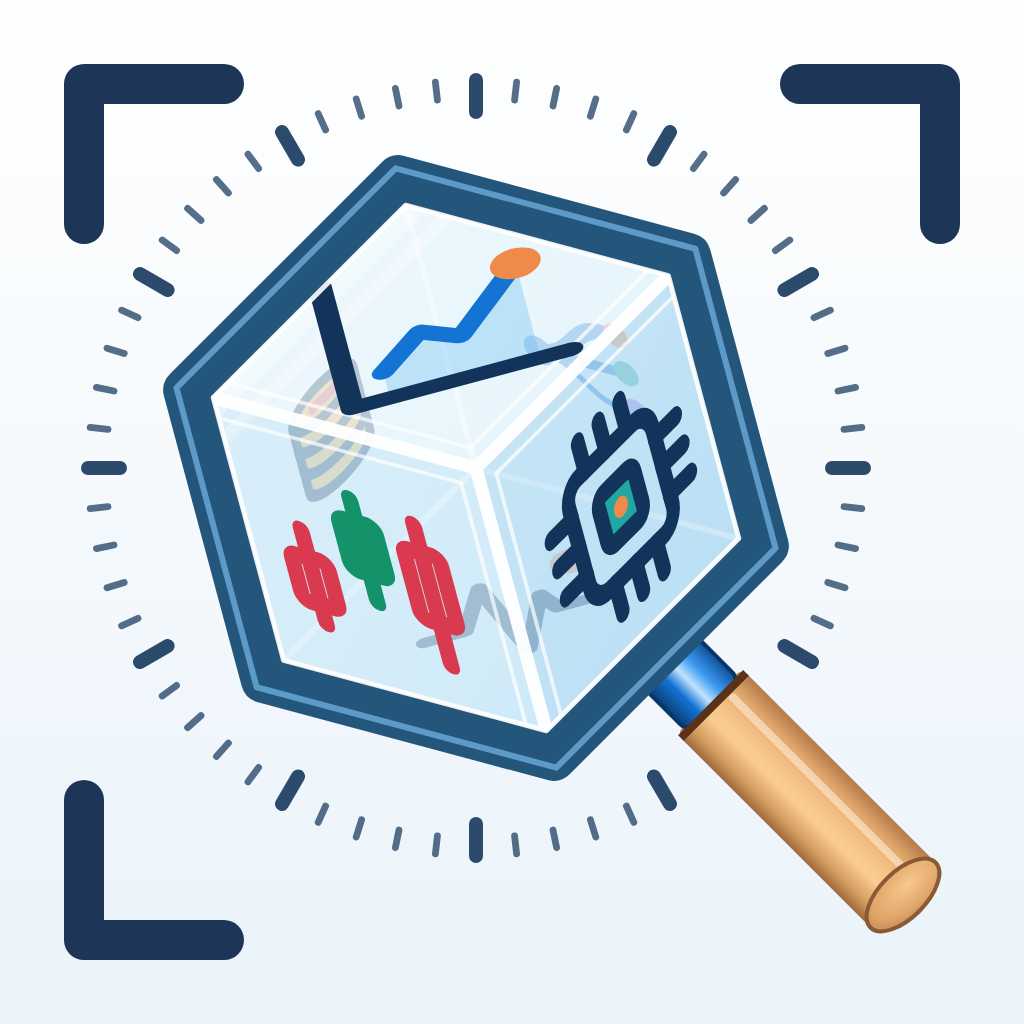
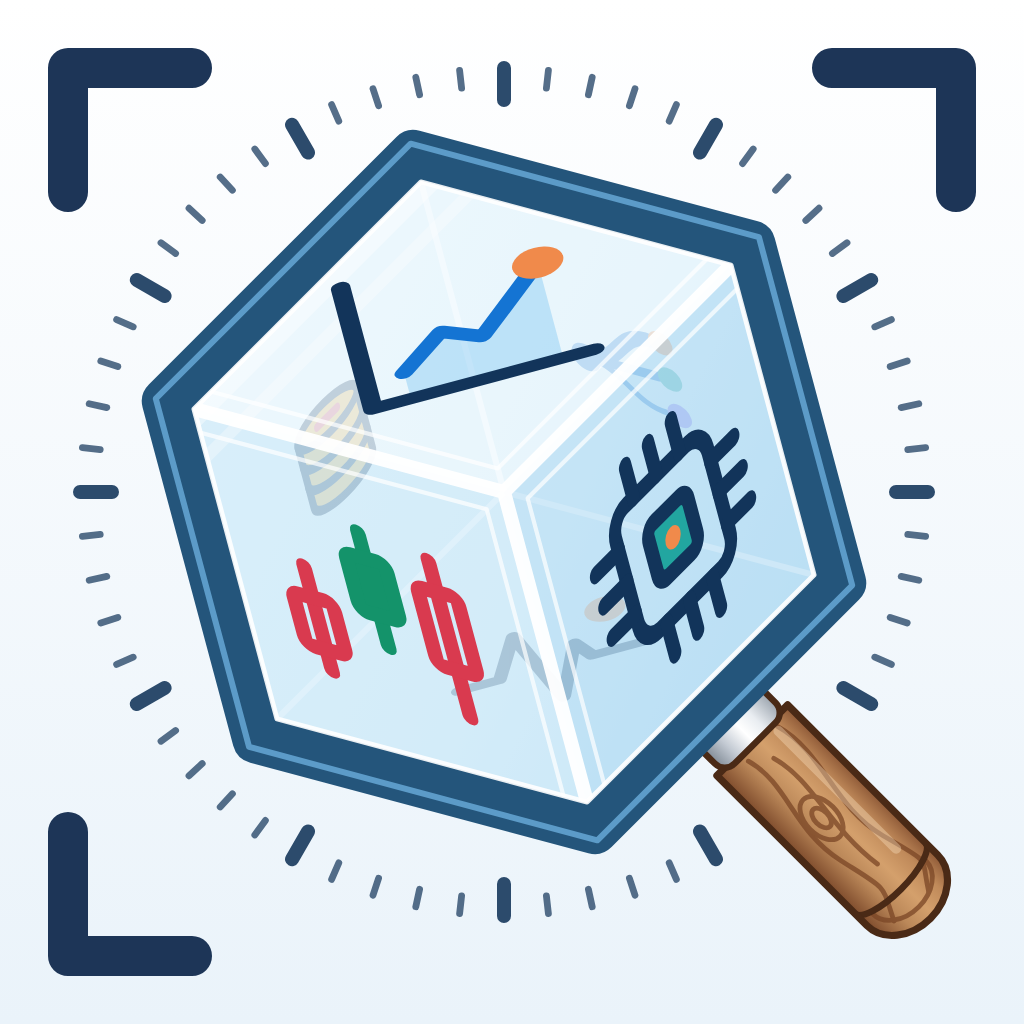
行銷：第十六輪〈股立方〉立方即鏡框、整體偏轉 −15°、參考圖風格短胡桃木柄、拿掉右下角框（滿版圖示）
Claude-Session: https://claude.ai/code/session_012KwvcGV2Non4TXRandryJJ

diff --git a/docs/brand/v16/_gen.py b/docs/brand/v16/_gen.py
@@ -13,23 +13,24 @@ FRONT, BACK = v15.FRONT, v15.BACK   # 上＝基本、左＝技術、右＝產業
 
 # ---------- 規格（512 畫布；PNG 輸出 1024 = 2 倍）----------
 W = 512
-LX, LY = 238, 234          # 六角（立方）中心：往左上放，讓把手伸到右下角
-R = 150                    # 立方外接半徑 = 鏡框中心線的外接半徑
-FRAME = 23                 # 鏡框線寬（延用 v15 樣式）
+LX, LY = 252, 246          # 六角（立方）中心：參考圖的立方幾乎置中，只往左上偏一點讓把手有位置
+R = 175                    # 立方外接半徑＝鏡框中心線；寬 2R·cos30° = 303 ≈ 畫布 59%（參考圖量到立方佔寬 55～60%、高 67%）
+FRAME = 24                 # 鏡框線寬（延用 v15 樣式）
 R_IN = R - FRAME/2
 ROT = -15                  # 整顆繞中心旋轉（SVG 角度，負＝逆時針）
 BASE_ANG = 60              # 未旋轉時把手垂直於右下邊的方向
-RING_IN, TICK_L, TICK_S = 178, 16, 9    # 刻度環內緣、長刻度、短刻度
-BR, BR_L, BR_W = 42, 70, 20             # 角框：中心線距邊 42（外緣距邊 32）、臂長、線寬
-HW = 23                    # 握把半徑
-COLLAR0, COLLAR1 = 3, 38   # 金屬環：從鏡框中心線往外 3～38（鏡框外緣在 +11.5 → 壓進 8.5）
-WOOD1 = 172                # 端面中心距根部
+RING_IN, TICK_L, TICK_S = 196, 16, 9    # 刻度環緊貼立方外圍：內緣 196（鏡框外緣頂點 187）；外徑 424 ≈ 畫布 83%（參考圖量到 81%）
+BR, BR_L, BR_W = 34, 62, 20             # 角框靠近四角：中心線距邊 34（外緣距邊 24）、臂長、線寬 20
+# 把手照參考圖：短而粗的胡桃木柄＋根部一圈銀色金屬環＋圓頭（參考圖量到：木柄長約畫布 26%、直徑約 10%、軸線 45°）
+HW = 25                    # 握把半徑（直徑 50 ≈ 畫布 10%）
+COLLAR0, COLLAR1 = 3, 26   # 金屬環：從鏡框中心線往外 3～26（鏡框外緣在 +12 → 壓進 9）
+WOOD1 = 150                # 木柄圓頭最外點距根部（金屬環＋木柄 ≈ 147 ≈ 畫布 29%；木頭本身 124 ≈ 24%）
 
 S3 = math.cos(math.radians(30))
 P = dict(bg0='#ffffff', bg1='#eaf3fa', bracket='#1d3557', tick='#2c4b6c',
          frame='#24557b', frame_hi='#6fb3e2', hi='#ffffff',
          top='#eef9fe', left='#cdeaf9', right='#b4dcf3', base='#dcf0fa', face_op=.6, base_op=.95,
-         hidden_op=.8, back_op=.62)
+         hidden_op=.8, back_op=.5)
 
 
 def rot(p, deg=ROT, c=(LX, LY)):
@@ -40,11 +41,11 @@ def rot(p, deg=ROT, c=(LX, LY)):
 def defs(u):
     d = [f'<linearGradient id="{u}bg" x1="0" y1="0" x2="0" y2="1"><stop offset="0" stop-color="{P["bg0"]}"/><stop offset="1" stop-color="{P["bg1"]}"/></linearGradient>',
          f'<linearGradient id="{u}glass" x1="0" y1="0" x2="1" y2="1"><stop offset="0" stop-color="{P["top"]}"/><stop offset=".55" stop-color="{P["base"]}"/><stop offset="1" stop-color="{P["right"]}"/></linearGradient>',
-         f'<linearGradient id="{u}wood" x1="0" y1="0" x2="0" y2="1"><stop offset="0" stop-color="#b47a4c"/><stop offset=".22" stop-color="#e2a96c"/>'
-         f'<stop offset=".45" stop-color="#f6c48a"/><stop offset=".62" stop-color="#facd91"/><stop offset=".85" stop-color="#d39a5e"/><stop offset="1" stop-color="#9c6a40"/></linearGradient>',
+         f'<linearGradient id="{u}wood" x1="0" y1="0" x2="0" y2="1"><stop offset="0" stop-color="#8c5735"/><stop offset=".22" stop-color="#c08a5a"/>'
+         f'<stop offset=".45" stop-color="#d4a06c"/><stop offset=".7" stop-color="#bb8859"/><stop offset="1" stop-color="#7d4a2b"/></linearGradient>',
          f'<radialGradient id="{u}cap" cx="40%" cy="38%" r="70%"><stop offset="0" stop-color="#f7c88f"/><stop offset=".7" stop-color="#e0a468"/><stop offset="1" stop-color="#c08452"/></radialGradient>',
-         f'<linearGradient id="{u}metal" x1="0" y1="0" x2="0" y2="1"><stop offset="0" stop-color="#0d4f99"/><stop offset=".3" stop-color="#3d9bf0"/>'
-         f'<stop offset=".5" stop-color="#bfe3ff"/><stop offset=".7" stop-color="#1474d3"/><stop offset="1" stop-color="#0a3d78"/></linearGradient>',
+         f'<linearGradient id="{u}metal" x1="0" y1="0" x2="0" y2="1"><stop offset="0" stop-color="#9aa3ad"/><stop offset=".3" stop-color="#e9edf1"/>'
+         f'<stop offset=".5" stop-color="#ffffff"/><stop offset=".75" stop-color="#c3cad3"/><stop offset="1" stop-color="#7f8994"/></linearGradient>',
          f'<clipPath id="{u}clip"><polygon points="{pts(hexagon(LX, LY, R_IN))}"/></clipPath>']
     return '<defs>' + ''.join(d) + '</defs>'
 
@@ -75,12 +76,19 @@ def brackets():
     return f'<path d="{d}" fill="none" stroke="{P["bracket"]}" stroke-width="{BR_W}" stroke-linecap="round" stroke-linejoin="round"/>'
 
 
-def cube_glass(cb, u, yw=6.5, sw=1.8):
+def place(cb, k, front):
+    """立方放大到 R=175 後，v14 的預設比例讓頂面走勢圖的縱軸太粗、背面淡圖太搶眼，這裡收小一點"""
+    if k in ('top', 'bottom'):
+        return cb.matrix_flat(k, .52 if front else .38)
+    return cb.matrix(k, .13 if front else .31)
+
+
+def cube_glass(cb, u, yw=7, sw=1.5):
     """框內的冰藍玻璃立方（未旋轉座標；外面整組再轉 −15°）"""
     C = cb.C
     o = [f'<polygon points="{pts(cb.hex)}" fill="url(#{u}glass)" fill-opacity="{P["base_op"]}"/>']
     for k, fn in BACK.items():
-        o.append(f'<g opacity="{P["back_op"]}" transform="{cb.place(k, .27)}">{glyph(fn, sw)}</g>')
+        o.append(f'<g opacity="{P["back_op"]}" transform="{place(cb, k, False)}">{glyph(fn, sw)}</g>')
     o.append(f'<path d="M{C[0]:.1f} {C[1]:.1f}L{cb.T[0]:.1f} {cb.T[1]:.1f}M{C[0]:.1f} {C[1]:.1f}L{cb.LL[0]:.1f} {cb.LL[1]:.1f}M{C[0]:.1f} {C[1]:.1f}L{cb.LR[0]:.1f} {cb.LR[1]:.1f}" '
              f'stroke="{P["hi"]}" stroke-width="{yw*.45:.1f}" stroke-opacity="{P["hidden_op"]}" stroke-linecap="round"/>')
     for k in ('top', 'left', 'right'):
@@ -96,7 +104,7 @@ def cube_glass(cb, u, yw=6.5, sw=1.8):
     o.append(f'<g clip-path="url(#{u}clip)"><polygon points="{pts(band(R_IN*.9, 16))}" fill="#ffffff" opacity=".4"/>'
              f'<polygon points="{pts(band(R_IN*.74, 6))}" fill="#ffffff" opacity=".3"/></g>')
     for k, fn in FRONT.items():
-        o.append(f'<g transform="{cb.place(k, .11)}">{glyph(fn, sw)}</g>')
+        o.append(f'<g transform="{place(cb, k, True)}">{glyph(fn, sw)}</g>')
     o.append(f'<path d="M{C[0]:.1f} {C[1]:.1f}L{cb.UL[0]:.1f} {cb.UL[1]:.1f}M{C[0]:.1f} {C[1]:.1f}L{cb.UR[0]:.1f} {cb.UR[1]:.1f}M{C[0]:.1f} {C[1]:.1f}L{cb.B[0]:.1f} {cb.B[1]:.1f}" '
              f'stroke="{P["hi"]}" stroke-width="{yw:.1f}" stroke-opacity=".95" stroke-linecap="round"/>')
     return ''.join(o)
@@ -116,13 +124,28 @@ def handle_root():
 
 
 def handle(u):
+    """參考圖風格的短粗木柄（局部座標：x 沿把手軸線往外，0＝鏡框中心線上的右下邊中點）"""
     m = handle_root()
+    x0, x1 = COLLAR1 - 2, WOOD1                 # 木頭起點、圓頭最外點
+    rx = HW*.8                                  # 圓頭的半橢圓深度
+    xe = x1 - rx
+    wood = f'M{x0} {-HW}H{xe}A{rx} {HW} 0 0 1 {xe} {HW}H{x0}Z'
+    groove = xe - HW*.35                        # 靠近端頭的一圈溝（參考圖有）
+    grain = (f'M{x0 + 4} {-HW*.55:.1f}C{x0 + 30} {-HW*.85:.1f} {x0 + 52} {-HW*.2:.1f} {x0 + 80} {-HW*.5:.1f}S{xe - 6} {-HW*.75:.1f} {xe + 10} {-HW*.35:.1f}'
+             f'M{x0 + 6} {HW*.35:.1f}C{x0 + 28} {HW*.1:.1f} {x0 + 46} {HW*.7:.1f} {x0 + 74} {HW*.45:.1f}S{xe - 10} {HW*.2:.1f} {xe + 8} {HW*.55:.1f}'
+             f'M{x0 + 14} {-HW*.05:.1f}C{x0 + 36} {-HW*.3:.1f} {x0 + 58} {HW*.15:.1f} {x0 + 88} {-HW*.02:.1f}')
+    knot = f'<ellipse cx="{x0 + 52}" cy="{HW*.12:.1f}" rx="13" ry="{HW*.32:.1f}" fill="none"/><ellipse cx="{x0 + 52}" cy="{HW*.12:.1f}" rx="6" ry="{HW*.14:.1f}" fill="none"/>'
     return (f'<g transform="translate({m[0]:.2f} {m[1]:.2f}) rotate({BASE_ANG})">'
-            f'<rect x="{COLLAR1 - 3}" y="{-HW}" width="{WOOD1 - COLLAR1 + 3}" height="{2*HW}" rx="4" fill="url(#{u}wood)"/>'
-            f'<path d="M{COLLAR1 + 4} {-HW*.42:.1f}H{WOOD1 - 12}" stroke="#fff3df" stroke-width="4" stroke-linecap="round" opacity=".55"/>'
-            f'<ellipse cx="{WOOD1}" cy="0" rx="{HW*.5:.1f}" ry="{HW}" fill="url(#{u}cap)" stroke="#8a5a34" stroke-width="2"/>'
-            f'<rect x="{COLLAR0}" y="{-HW*.8:.1f}" width="{COLLAR1 - COLLAR0}" height="{HW*1.6:.1f}" rx="5" fill="url(#{u}metal)" stroke="#0a3566" stroke-width="2"/>'
-            f'<path d="M{COLLAR1} {-HW:.1f}V{HW:.1f}" stroke="#5a3218" stroke-width="4"/>'
+            f'<clipPath id="{u}woodclip"><path d="{wood}"/></clipPath>'
+            f'<path d="{wood}" fill="url(#{u}wood)"/>'
+            f'<g clip-path="url(#{u}woodclip)" stroke="#7a4626" stroke-width="2.4" stroke-linecap="round" fill="none" opacity=".75">'
+            f'<path d="{grain}"/>{knot}'
+            f'<path d="M{xe - 2} {-HW*.75:.1f}A{rx*.55:.1f} {HW*.6:.1f} 0 0 1 {xe - 2} {HW*.75:.1f}"/>'          # 圓頭上的年輪
+            f'</g>'
+            f'<path d="M{x0 + 6} {-HW*.5:.1f}H{groove - 8}" stroke="#ffe9c9" stroke-width="5" stroke-linecap="round" opacity=".35"/>'   # 高光
+            f'<path d="M{groove} {-HW}A{HW*.32:.1f} {HW} 0 0 1 {groove} {HW}" fill="none" stroke="#4a2a16" stroke-width="3.2"/>'          # 端頭的溝
+            f'<path d="{wood}" fill="none" stroke="#4a2a16" stroke-width="3.6" stroke-linejoin="round"/>'                                   # 深咖啡外框
+            f'<rect x="{COLLAR0}" y="{-HW*.86:.1f}" width="{COLLAR1 - COLLAR0}" height="{HW*1.72:.1f}" rx="7" fill="url(#{u}metal)" stroke="#4a2a16" stroke-width="3.2"/>'  # 銀色金屬環
             f'</g>')
 
 
@@ -140,12 +163,12 @@ def check():
     edge = (h[3][0] - h[2][0], h[3][1] - h[2][1]); el = math.hypot(*edge)
     ax = (math.cos(math.radians(handle_axis())), math.sin(math.radians(handle_axis())))
     m = rot(handle_root())
-    cap = (m[0] + ax[0]*WOOD1, m[1] + ax[1]*WOOD1)
-    far = [(cap[0] + ax[0]*HW*.5, cap[1] + ax[1]*HW*.5), (cap[0] - ax[1]*HW, cap[1] + ax[0]*HW), (cap[0] + ax[1]*HW, cap[1] - ax[0]*HW)]
+    cap = (m[0] + ax[0]*(WOOD1 - HW*.8), m[1] + ax[1]*(WOOD1 - HW*.8))
+    far = [(m[0] + ax[0]*WOOD1, m[1] + ax[1]*WOOD1), (cap[0] - ax[1]*HW, cap[1] + ax[0]*HW), (cap[0] + ax[1]*HW, cap[1] - ax[0]*HW)]
     hx_out = [rot(p) for p in hexagon(LX, LY, R + FRAME/2)]
     print(f'旋轉後右下邊單位向量 ({edge[0]/el:.3f}, {edge[1]/el:.3f})，把手軸線 {handle_axis()}° ({ax[0]:.3f}, {ax[1]:.3f})，內積 {(ax[0]*edge[0] + ax[1]*edge[1])/el:.1e}')
     print(f'把手根部 {m[0]:.1f},{m[1]:.1f}；金屬環從鏡框中心線往外 {COLLAR0}～{COLLAR1}，鏡框外緣 +{FRAME/2} → 壓進 {FRAME/2 - COLLAR0:.1f}')
-    print(f'端面中心 {cap[0]:.1f},{cap[1]:.1f}（1024：{cap[0]*2:.0f},{cap[1]*2:.0f}）；端面最外點（1024）：' + '、'.join(f'{x*2:.0f},{y*2:.0f}' for x, y in far))
+    print(f'圓頭中心 {cap[0]:.1f},{cap[1]:.1f}（1024：{cap[0]*2:.0f},{cap[1]*2:.0f}）；端面最外點（1024）：' + '、'.join(f'{x*2:.0f},{y*2:.0f}' for x, y in far))
     print(f'鏡框外緣頂點（含旋轉）x {min(p[0] for p in hx_out):.0f}～{max(p[0] for p in hx_out):.0f}、y {min(p[1] for p in hx_out):.0f}～{max(p[1] for p in hx_out):.0f}')
     print(f'刻度環 {RING_IN}～{RING_IN + TICK_L}，與鏡框外緣頂點留白 {RING_IN - R - FRAME/2:.1f}；刻度環外緣：上 {LY - RING_IN - TICK_L - 3.5:.0f}、左 {LX - RING_IN - TICK_L - 3.5:.0f}、右 {W - LX - RING_IN - TICK_L - 3.5:.0f}、下 {W - LY - RING_IN - TICK_L - 3.5:.0f}')
     for nm, (bx, by) in (('左上角框臂端', (BR + BR_L, BR)), ('左上角框臂端(直)', (BR, BR + BR_L)), ('右上角框臂端', (W - BR - BR_L, BR)), ('右上角框臂端(直)', (W - BR, BR + BR_L)), ('左下角框臂端', (BR + BR_L, W - BR)), ('左下角框臂端(直)', (BR, W - BR - BR_L))):
